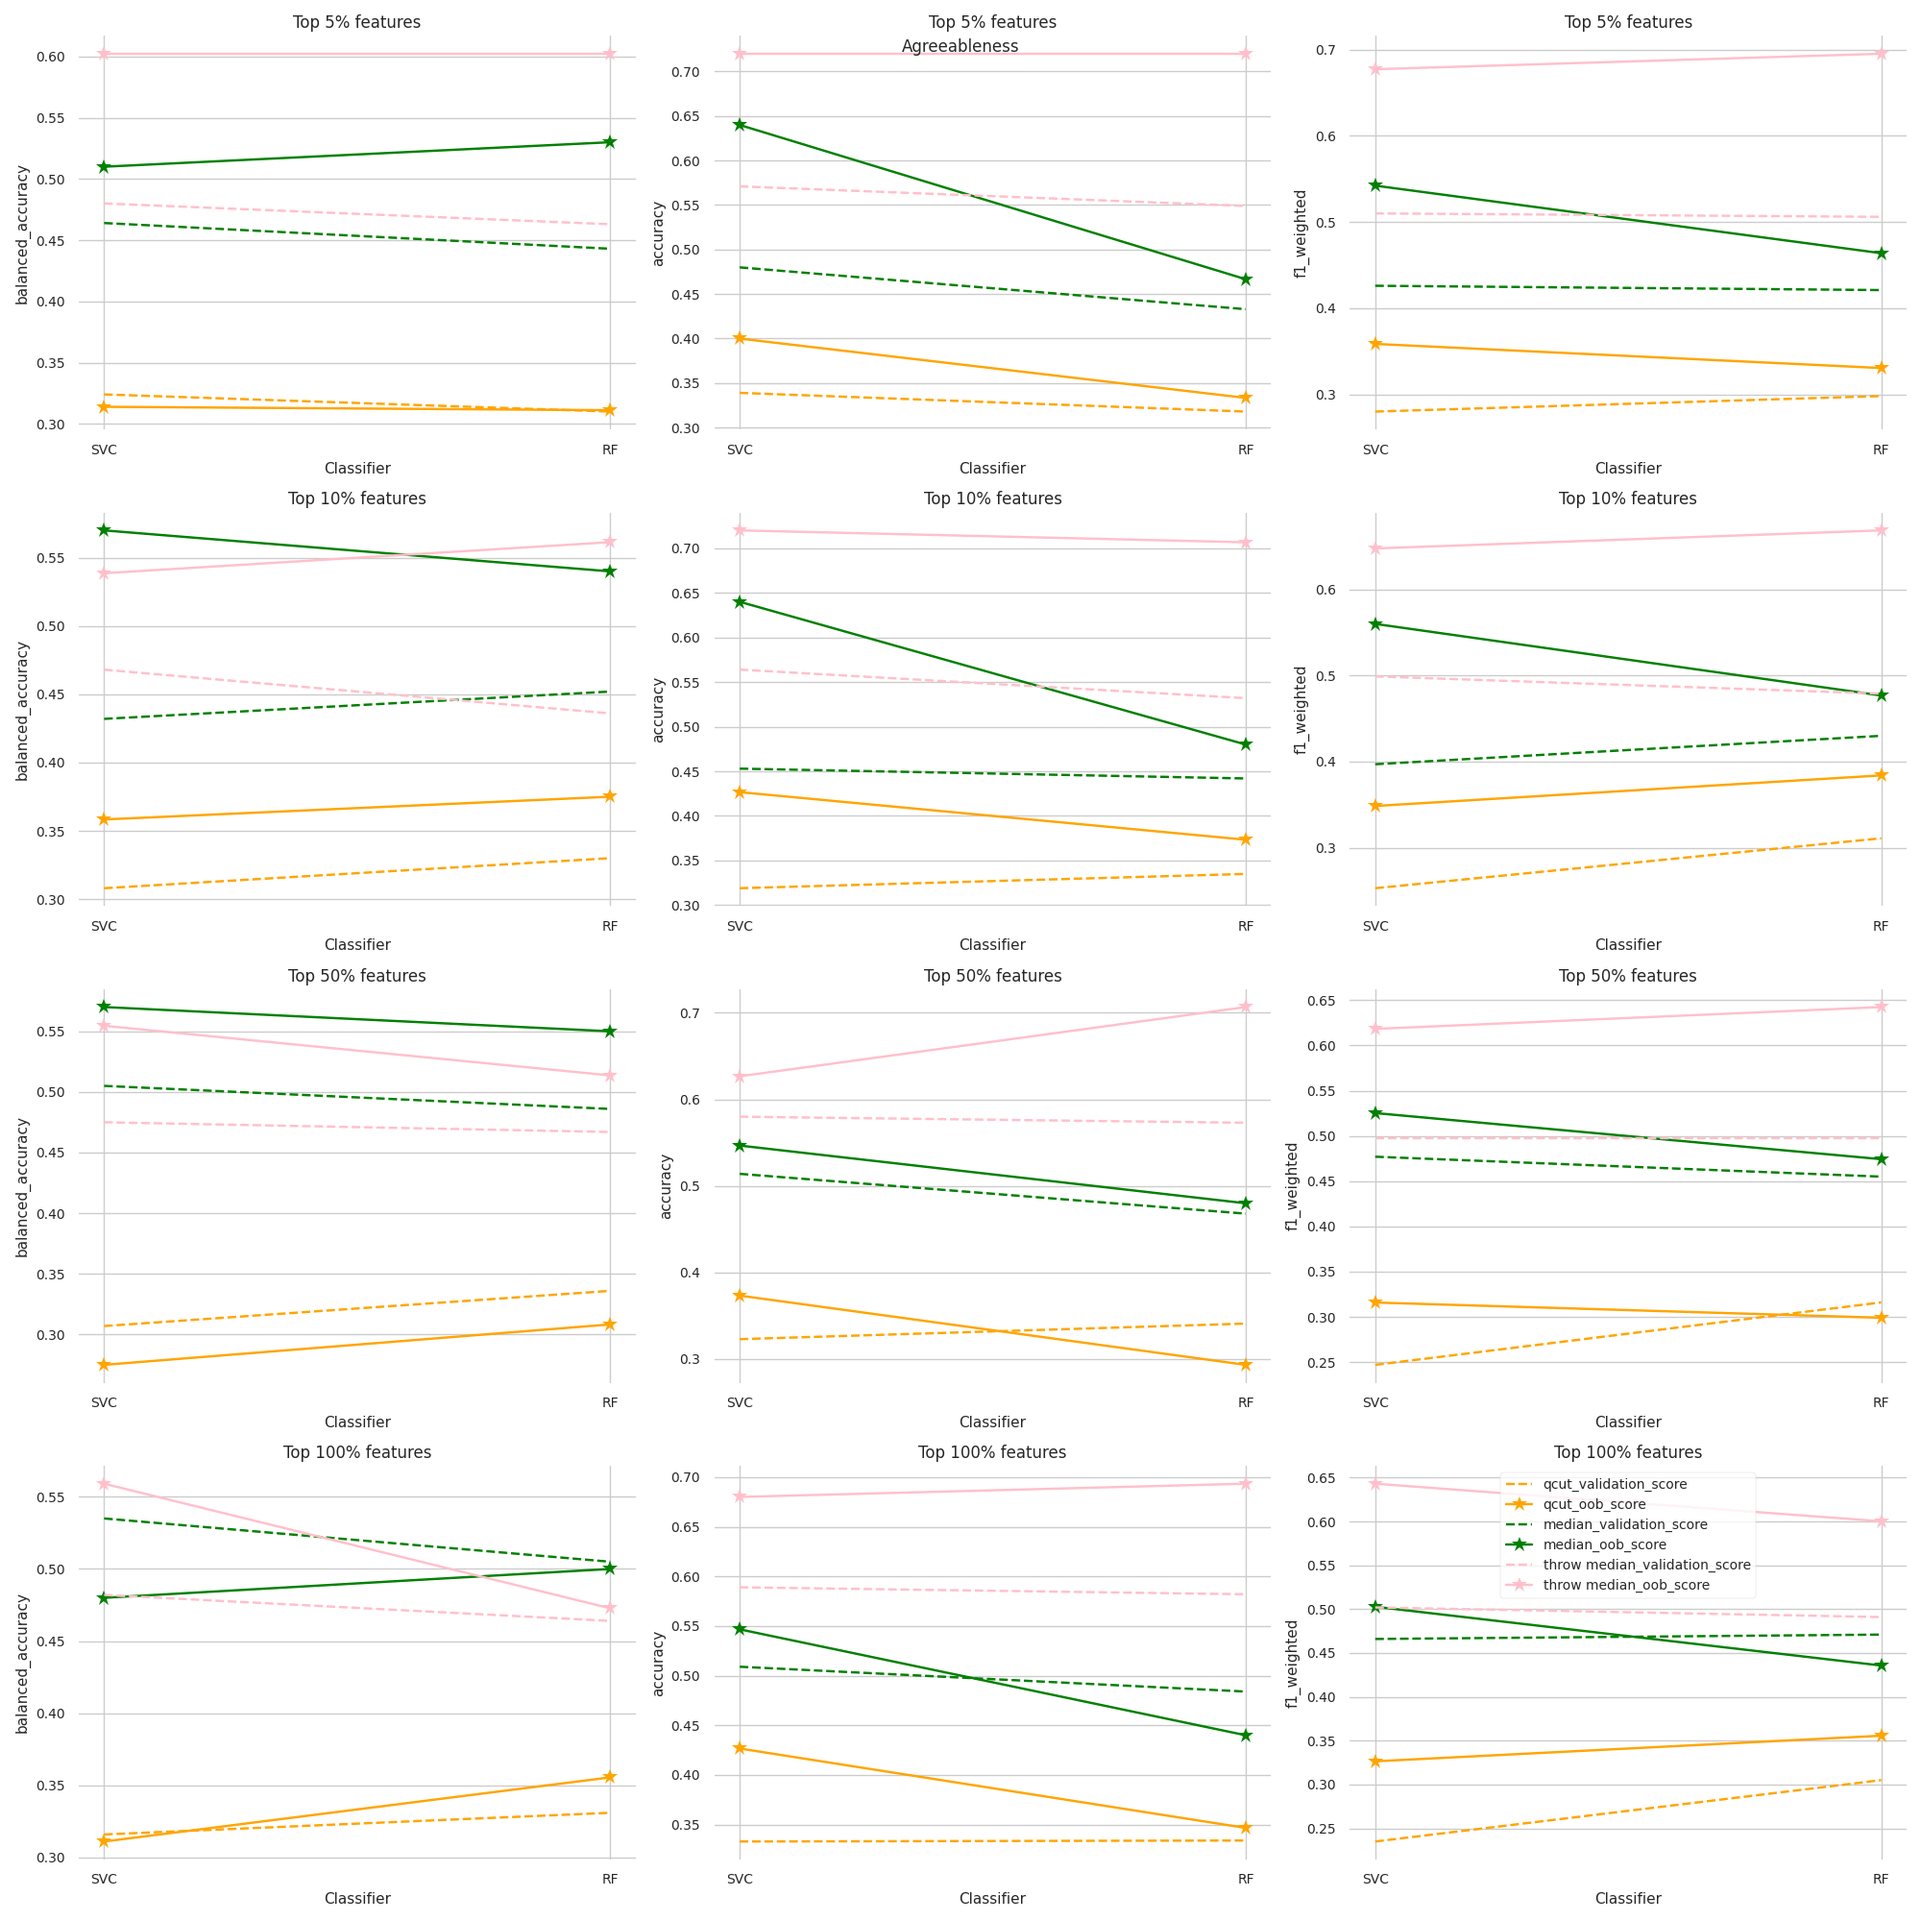
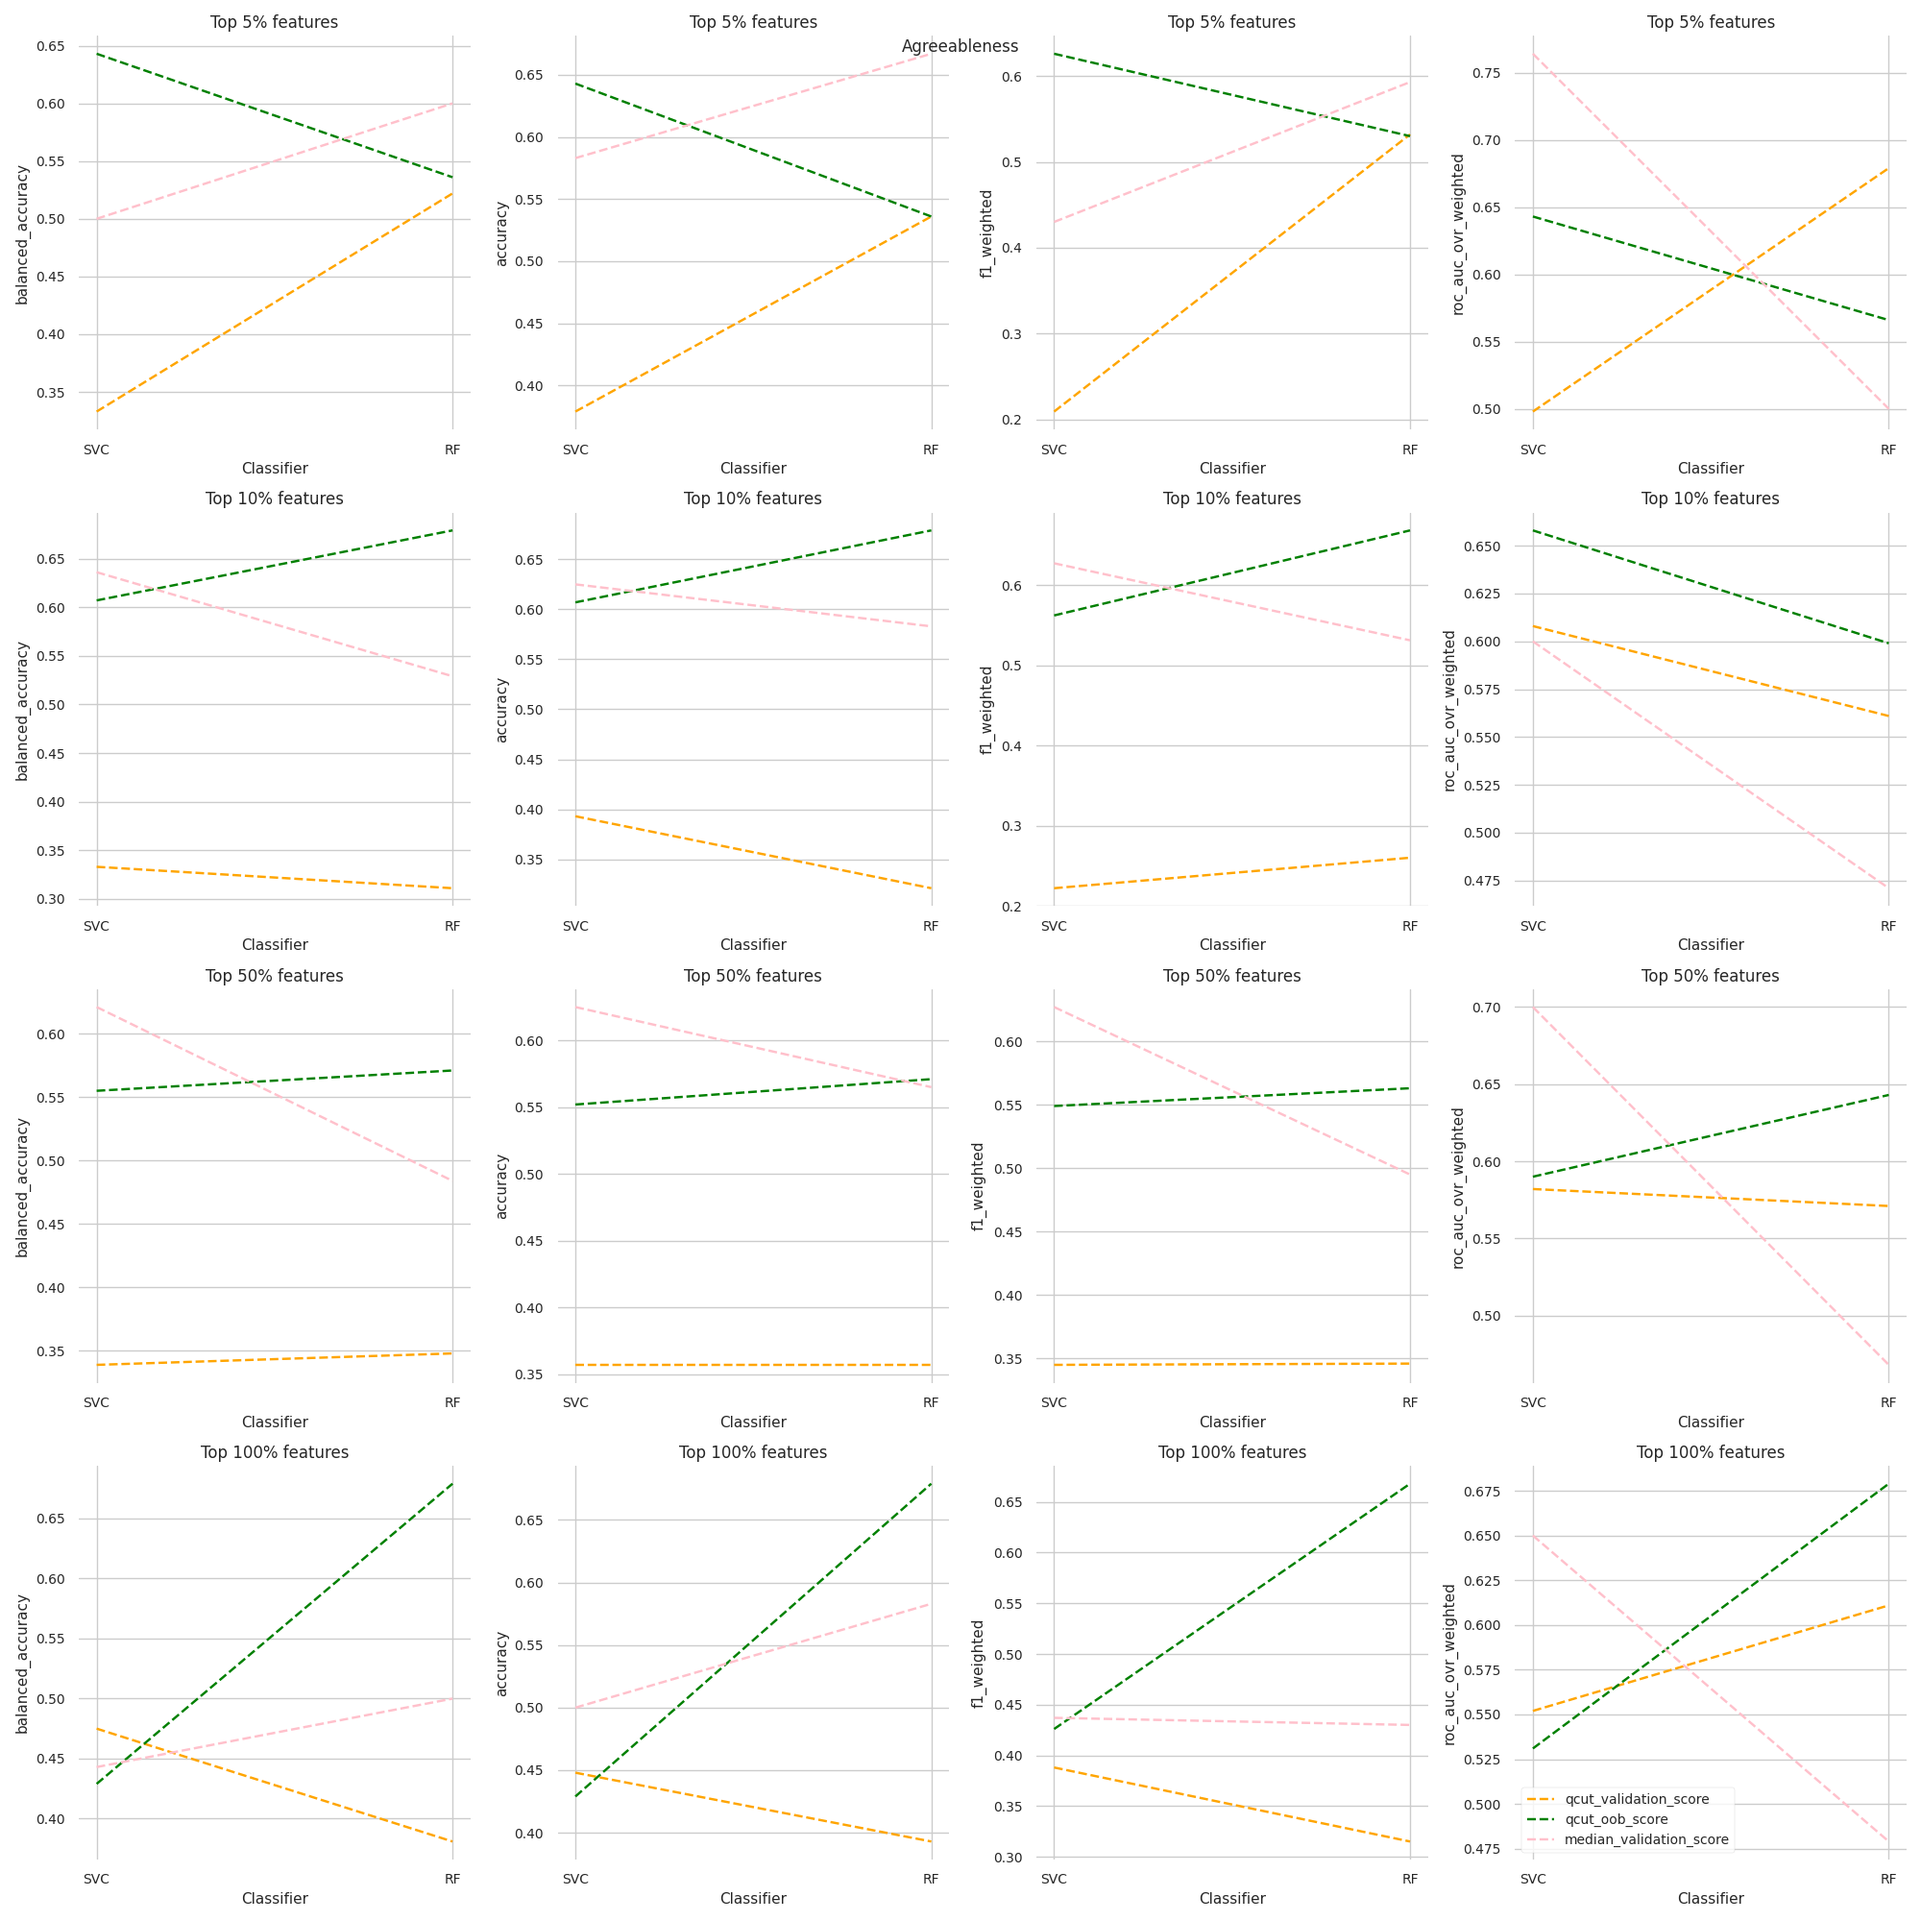
results in process, not tracked

diff --git a/graphtools/classification.py b/graphtools/classification.py
@@ -2,7 +2,6 @@ import datetime
 import json
 import os
 import time
-
 import matplotlib.pyplot as plt
 import numpy as np
 import pandas as pd
@@ -10,7 +9,6 @@ from sklearn.model_selection import PredefinedSplit
 from sklearn.model_selection import RandomizedSearchCV
 from sklearn.model_selection import StratifiedKFold
 from sklearn.preprocessing import StandardScaler
-
 from metrics import fscore, compute_scores
 from paramopt import get_distributions
 
@@ -76,6 +74,8 @@ def make_predefined_split(X_train, X_val, y_train, y_val):
     y_train_comb.sort_index(inplace=True)
     X_train_comb = pd.concat([X_train, X_val], axis=0)
     X_train_comb.sort_index(inplace=True, axis=0)
+    assert list(X_train_comb.index) == list(y_train_comb.index)
+    assert set(X_train_comb.index) == set(X_val.index).union(set(X_train.index))
     split_index = [-1 if x in X_train.index else 0 for x in X_train_comb.index]
     return X_train_comb, y_train_comb, split_index
 
@@ -97,7 +97,7 @@ def dict_classifier(classifier, whole, metrics, target_col, edge, percent):
     metric_score = {}
     best_params = {}
     # note we are running for one label at a time!  # different labels
-    for choice in ['throw median', 'qcut', 'median']:
+    for choice in ['throw median', 'qcut', 'median'][:1]:
         print(choice)
         metric_score[choice] = {}
         best_params[choice] = {}
@@ -137,15 +137,15 @@ def dict_classifier(classifier, whole, metrics, target_col, edge, percent):
                                              n_jobs=-1)  # this is already producing 5 folds so we need to do something different?
                     # both the training and the validation set shall be passed since we have passed the indices of the validation set
                     search = rcv.fit(X_train_comb, y_train_comb)
-                    inner_cv_scores.append(search.best_score_)
+                    inner_cv_scores.append(search.cv_results_)
                     inner_cv_params.append(search.best_estimator_)
                     # print('rcv scores length', len(search.cv_results_['mean_test_roc_auc_ovr_weighted']), search.cv_results_['mean_test_roc_auc_ovr_weighted'])
                     print('best internal cv params', search.best_params_)
-
+                print('internal cv scores', search.cv_results_)
                 X_train_c, X_test = feature_selection(X_train_c, X_test, y_train_c, y_test, per, target_col, edge)
                 assert len(inner_cv_scores) == len(inner_cv_params)
                 # print('keys', inner_cv_scores[0].keys())
-                clf1 = inner_cv_params[np.argmax([inner_cv_scores])]
+                clf1 = inner_cv_params[np.argmax([np.mean(result['mean_test_roc_auc_ovr_weighted']) for result in inner_cv_scores])]
                 # we have this because of the number of trials for the parameter settings
                 clf1.fit(X_train_c, y_train_c)
                 y_pred = clf1.predict(X_test)
@@ -166,9 +166,11 @@ def dict_classifier(classifier, whole, metrics, target_col, edge, percent):
             for metric in metrics:
                 # validation set
                 metric_score[choice][per][metric] = {}
-                # but the best score into the outer cv part instead of the average
-                metric_score[choice][per][metric] = round(outer_cv_scores[loc][metric], 3)
-                print(f'{metric}', np.mean([score[metric] for score in outer_cv_scores]))
+                metric_score[choice][per][metric]['best'] = round(outer_cv_scores[loc][metric], 3)
+                # take the mean of the outer validation scores for each of the different algorithms
+                metric_score[choice][per][metric]['mean'] = round(np.mean([score[metric] for score in outer_cv_scores]),3)
+                print(f'{metric} best score', round(outer_cv_scores[loc][metric], 3))
+                print(f'{metric} mean', np.mean([score[metric] for score in outer_cv_scores]))
                 # out of bag error
     return {'Metrics': metric_score, 'Parameters': best_params}
 
@@ -205,16 +207,16 @@ def visualise_performance(combined, metrics, top_per, target):
     fig, ax = plt.subplots(len(top_per), len(metrics), figsize=(20, 20))
     legends = []
     for choice in ['qcut', 'median', 'throw median']:
-        legends.extend([choice + '_validation_score', choice + '_oob_score'])
+        legends.extend([choice])
     for k in range(len(top_per)):
         for j in range(len(metrics)):
             for choice, color in zip(['qcut', 'median', 'throw median'], ['orange', 'green', 'pink']):
-                validation = []
+                test_score = []
                 for clf in combined.keys():
                     print("dictionary", combined[clf][choice])
-                    validation.append(combined[clf][choice][top_per[k]][metrics[j]])
+                    test_score.append(combined[clf][choice][top_per[k]][metrics[j]['best']])
 
-                ax[k][j].plot(list(combined.keys()), validation, marker='+', label=choice,
+                ax[k][j].plot(list(combined.keys()), test_score, marker='+', label=choice,
                               color=color, linestyle='dashed', markersize=12)
             if top_per[k] == 0:
                 ax[k][j].set_title(f'100% features')
@@ -247,7 +249,7 @@ def run_classification(whole, metrics, target, target_col, edge):
         if not os.path.exists(f'outputs/{folder}'):
             os.mkdir(f'outputs/{folder}')
 
-    for clf in ['SVC', 'RF', 'GB', 'MLP'][:2]:  # other ones are taking too long
+    for clf in ['SVC', 'RF', 'GB', 'MLP']:  # other ones are taking too long
         start = time.time()
         d1 = dict_classifier(clf, whole, metrics, target_col, edge, [5, 10, 50, 100])
         end = time.time()
